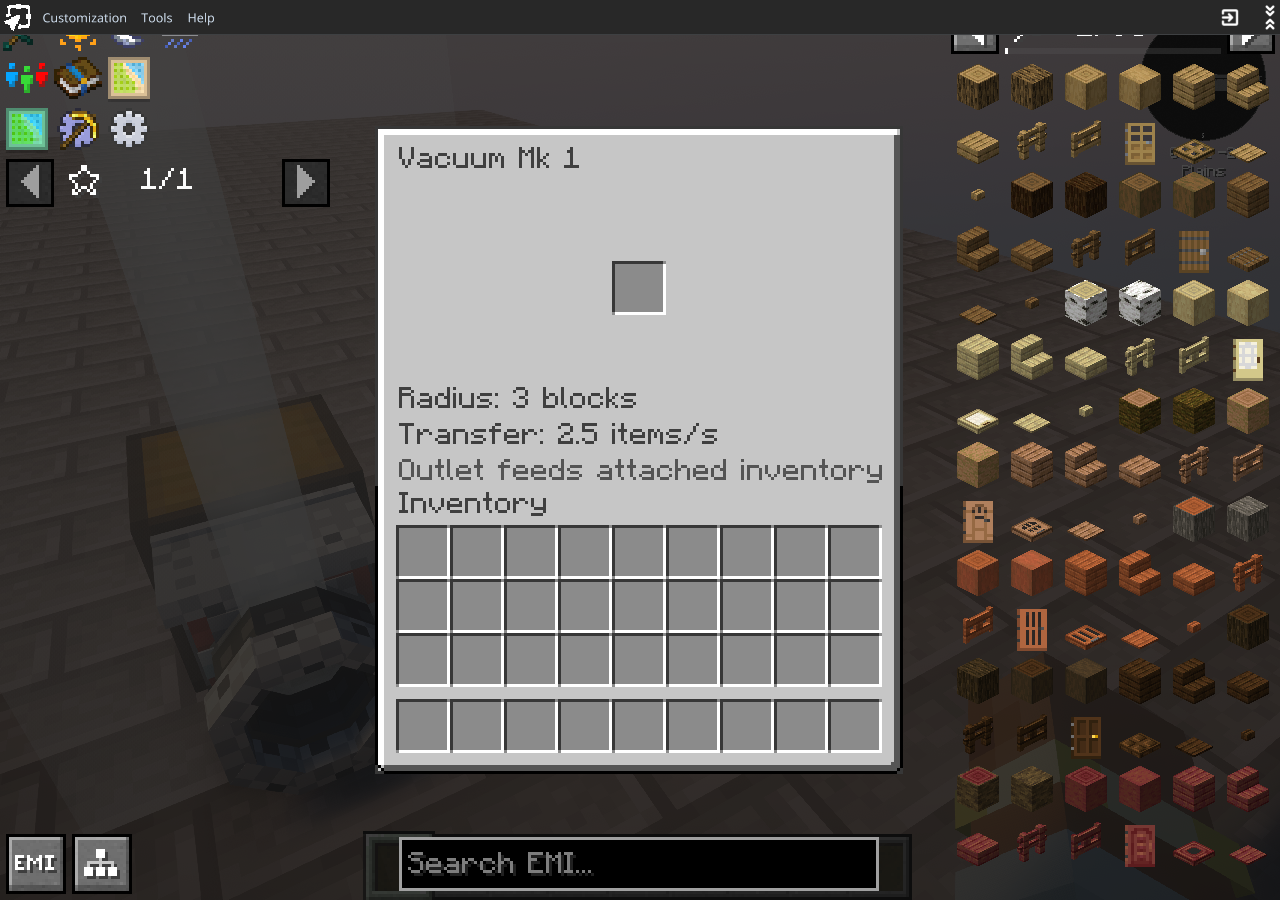
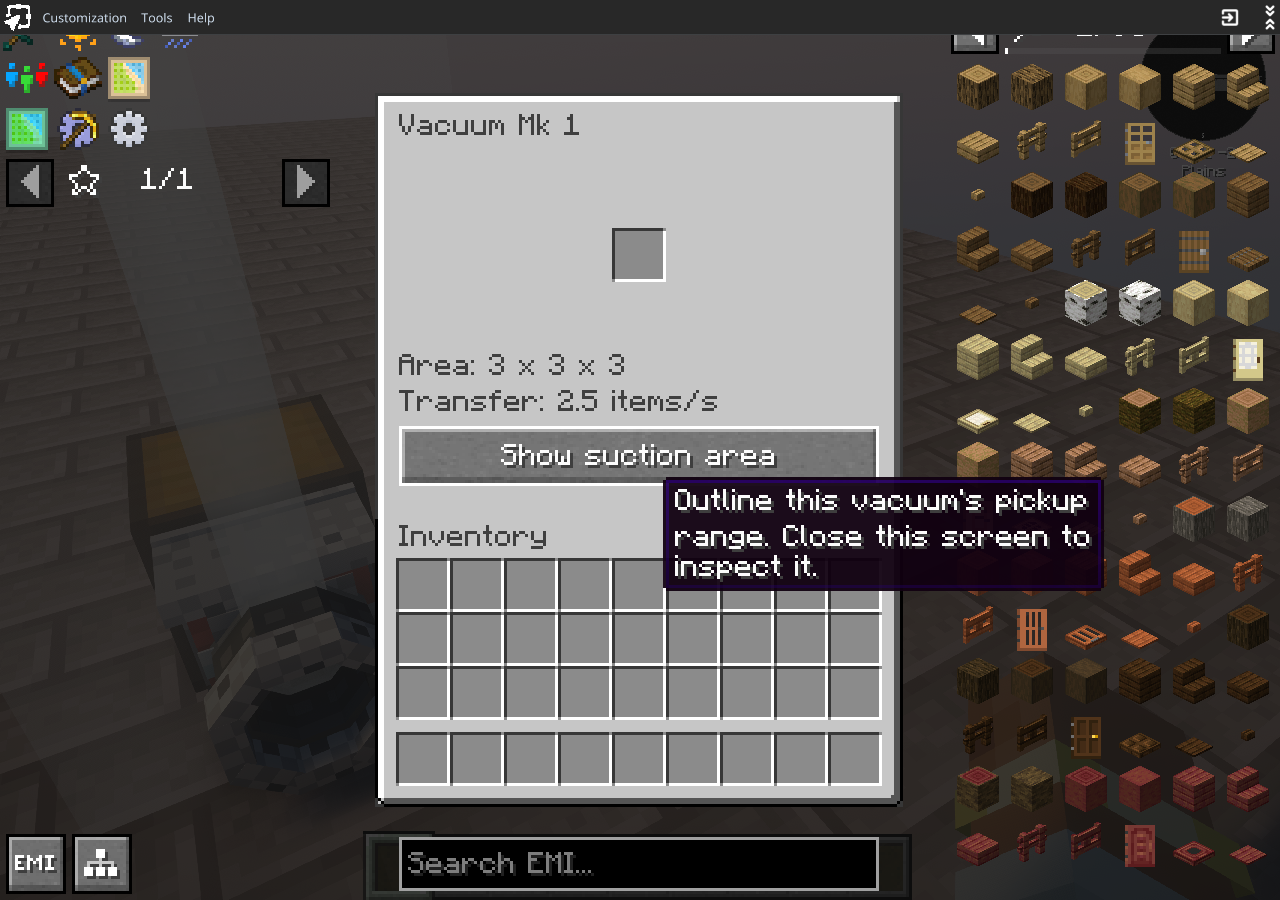
Add forward pickup cubes and vacuum area previews with upright floor placement

Changed region(s): [[0.2812, 0.3733, 0.875, 0.9022], [0.2812, 0.0933, 0.7188, 0.1867], [0.4688, 0.2489, 0.5312, 0.3733]]

diff --git a/revoindustry/src/vacuumtest/java/dk/revo/revoindustry/vacuum/VacuumGameTests.java b/revoindustry/src/vacuumtest/java/dk/revo/revoindustry/vacuum/VacuumGameTests.java
@@ -10,7 +10,8 @@ import net.neoforged.neoforge.gametest.*;
 @GameTestHolder("revoindustry") @PrefixGameTestTemplate(false)
 public final class VacuumGameTests {
  static VacuumEntity make(GameTestHelper h,int tier,Direction facing){var pos=h.absolutePos(new BlockPos(4,3,4));if(h.getLevel().getBlockEntity(pos) instanceof VacuumEntity old)for(int i=0;i<old.inventory.getSlots();i++)old.inventory.setStackInSlot(i,ItemStack.EMPTY);h.getLevel().setBlockAndUpdate(pos,Blocks.AIR.defaultBlockState());h.getLevel().setBlockAndUpdate(pos,Vacuums.BLOCKS.get(tier).get().defaultBlockState().setValue(VacuumBlock.OUTLET,facing));return (VacuumEntity)h.getLevel().getBlockEntity(pos);}
- static void step(VacuumEntity v,int ticks){var l=(net.minecraft.server.level.ServerLevel)v.getLevel();for(int i=0;i<ticks;i++){l.getServer().getWorldData().overworldData().setGameTime(l.getGameTime()+1);v.tick();}}
+ static void step(VacuumEntity v,int ticks){var l=(net.minecraft.server.level.ServerLevel)v.getLevel();long original=l.getGameTime();try{for(int i=0;i<ticks;i++){l.getServer().getWorldData().overworldData().setGameTime(original+i+1);v.tick();}}finally{l.getServer().getWorldData().overworldData().setGameTime(original);}}
+
  static ItemEntity item(GameTestHelper h,Vec3 pos,Item item,int count){var e=new ItemEntity(h.getLevel(),pos.x,pos.y,pos.z,new ItemStack(item,count));e.setNoGravity(true);e.setDeltaMovement(Vec3.ZERO);h.getLevel().addFreshEntity(e);return e;}
  @GameTest(template="vacuum_test",timeoutTicks=100)
  public static void tiersSlotsAndSixDirectionalChestTransfer(GameTestHelper h){
@@ -27,26 +28,54 @@ public final class VacuumGameTests {
   var v=make(h,0,Direction.DOWN);var p=v.getBlockPos().below();h.getLevel().setBlockAndUpdate(p,Blocks.CHEST.defaultBlockState());var chest=(ChestBlockEntity)h.getLevel().getBlockEntity(p);
   for(int i=0;i<27;i++)chest.setItem(i,new ItemStack(Items.STONE,64));v.inventory.insertItem(0,new ItemStack(Items.DIAMOND,12),false);step(v,24);h.assertTrue(v.inventory.getStackInSlot(0).getCount()==12,"Full chest must preserve buffer");
   var tag=v.saveWithoutMetadata(h.getLevel().registryAccess());var restored=new VacuumEntity(v.getBlockPos(),v.getBlockState());restored.loadWithComponents(tag,h.getLevel().registryAccess());h.assertTrue(restored.inventory.getStackInSlot(0).getCount()==12,"Inventory survives save/load");
-  v.inventory.setStackInSlot(0,new ItemStack(Items.DIAMOND,63));var entity=item(h,v.intake(),Items.DIAMOND,5);step(v,4);h.assertTrue(v.inventory.getStackInSlot(0).getCount()==64&&entity.getItem().getCount()==4&&entity.isAlive(),"Partial pickup preserves all remainder");
+  v.inventory.setStackInSlot(0,new ItemStack(Items.DIAMOND,63));var entity=item(h,Vec3.atCenterOf(v.getBlockPos()).relative(v.outlet().getOpposite(),.65),Items.DIAMOND,5);step(v,4);h.assertTrue(v.inventory.getStackInSlot(0).getCount()==64&&entity.getItem().getCount()==4&&entity.isAlive(),"Partial pickup preserves all remainder");
   h.assertTrue(!v.accepts(new ItemStack(Items.DIAMOND)),"Full buffer refuses attraction");entity.discard();h.succeed();
  }
  @GameTest(template="vacuum_test",timeoutTicks=100)
- public static void pickupRadiusPullDirectionAndActualCollection(GameTestHelper h){
+ public static void pickupCubeBoundariesCornersAndActualCollection(GameTestHelper h){
   for(int tier=0;tier<3;tier++){
-   var v=make(h,tier,Direction.DOWN);var centre=Vec3.atCenterOf(v.getBlockPos());var inside=item(h,centre.add(Vacuums.radius(tier)-.2,0,0),Items.IRON_INGOT,1);var outside=item(h,centre.add(Vacuums.radius(tier)+.2,0,0),Items.GOLD_INGOT,1);
-   step(v,4);h.assertTrue(inside.getDeltaMovement().x<0,"In-range item pulled toward nozzle");h.assertTrue(outside.getDeltaMovement().lengthSqr()==0,"Out-of-range item untouched");
-   inside.setPos(v.intake());step(v,4);h.assertTrue(!inside.isAlive()&&v.inventory.getStackInSlot(0).is(Items.IRON_INGOT),"Nearby item enters buffer");outside.discard();
+   var v=make(h,tier,Direction.SOUTH);var centre=Vacuums.area(v.getBlockPos(),tier,v.outlet()).getCenter();var inside=item(h,centre.add(Vacuums.size(tier)/2.0-.2,0,0),Items.IRON_INGOT,1);var outside=item(h,centre.add(Vacuums.size(tier)/2.0+.2,0,0),Items.GOLD_INGOT,1);
+   var area=Vacuums.area(v.getBlockPos(),tier,v.outlet());h.assertTrue(area.getXsize()==new int[]{3,5,9}[tier]&&area.getYsize()==area.getXsize()&&area.getZsize()==area.getXsize(),"Exact block-aligned tier cube");
+   double cornerOffset=Vacuums.size(tier)/2.0-.2;var corner=item(h,centre.add(cornerOffset,cornerOffset,cornerOffset),Items.DIAMOND,1);
+   step(v,4);h.assertTrue(corner.getDeltaMovement().lengthSqr()>0&&corner.getDeltaMovement().x<0,"Cube corners are included");corner.discard();h.assertTrue(inside.getDeltaMovement().x<0,"In-range item pulled toward nozzle");h.assertTrue(outside.getDeltaMovement().lengthSqr()==0,"Out-of-range item untouched");
+   inside.setPos(Vec3.atCenterOf(v.getBlockPos()).relative(v.outlet().getOpposite(),.65));step(v,4);h.assertTrue(!inside.isAlive()&&v.inventory.getStackInSlot(0).is(Items.IRON_INGOT),"Nearby item enters buffer");outside.discard();
   }h.succeed();
  }
  @GameTest(template="vacuum_test",timeoutTicks=100)
  public static void fullBufferDoesNotMoveItemsAndBreakingDropsOnce(GameTestHelper h){
-  var v=make(h,2,Direction.UP);for(int i=0;i<9;i++)v.inventory.setStackInSlot(i,new ItemStack(Items.STONE,64));var e=item(h,Vec3.atCenterOf(v.getBlockPos()).add(2,0,0),Items.DIAMOND,4);step(v,4);h.assertTrue(e.getDeltaMovement().lengthSqr()==0&&e.getItem().getCount()==4,"Full buffer leaves items untouched");
+  var v=make(h,2,Direction.UP);for(int i=0;i<9;i++)v.inventory.setStackInSlot(i,new ItemStack(Items.STONE,64));var e=item(h,Vec3.atCenterOf(v.getBlockPos()).relative(v.outlet().getOpposite(),2),Items.DIAMOND,4);step(v,4);h.assertTrue(e.getDeltaMovement().lengthSqr()==0&&e.getItem().getCount()==4,"Full buffer leaves items untouched");
   var box=new net.minecraft.world.phys.AABB(v.getBlockPos()).inflate(1);h.getLevel().setBlockAndUpdate(v.getBlockPos(),Blocks.AIR.defaultBlockState());int count=h.getLevel().getEntitiesOfClass(ItemEntity.class,box).stream().filter(x->x.getItem().is(Items.STONE)).mapToInt(x->x.getItem().getCount()).sum();h.assertTrue(count==576,"Breaking drops every buffered item once");e.discard();h.succeed();
  }
  @GameTest(template="vacuum_test",timeoutTicks=120)
  public static void worldTicksActuallyPullAndCollectItems(GameTestHelper h){
-  var v=make(h,2,Direction.DOWN);var e=item(h,v.intake().add(0,0,-2.5),Items.EMERALD,7);
+  var v=make(h,2,Direction.DOWN);var e=item(h,Vec3.atCenterOf(v.getBlockPos()).relative(v.outlet().getOpposite(),2.5),Items.EMERALD,7);
   h.runAtTickTime(80,()->{h.assertTrue(!e.isAlive(),"Real entity motion must reach nozzle");h.assertTrue(v.inventory.getStackInSlot(0).is(Items.EMERALD)&&v.inventory.getStackInSlot(0).getCount()==7,"Collected all seven without manual teleport");h.succeed();});
+ }
+
+ @GameTest(template="vacuum_test",timeoutTicks=100)
+ public static void forwardCubeAllTiersAndSixOrientations(GameTestHelper h){
+  for(int tier=0;tier<3;tier++)for(var outlet:Direction.values()){
+   var v=make(h,tier,outlet);var area=Vacuums.area(v.getBlockPos(),tier,outlet);var centre=Vec3.atCenterOf(v.getBlockPos());var front=outlet.getOpposite();int size=Vacuums.size(tier);
+   h.assertTrue(!area.contains(centre),"Vacuum must sit outside its forward collection cube");
+   h.assertTrue(area.contains(centre.relative(front,1))&&area.contains(centre.relative(front,size)),"First and last blocks in front are included");
+   h.assertTrue(!area.contains(centre.relative(front,size+1))&&!area.contains(centre.relative(outlet,1)),"Rear output and beyond-front blocks are excluded");
+   var accepted=item(h,centre.relative(front,1),Items.DIAMOND,1);var rejected=item(h,centre.relative(outlet,1),Items.GOLD_INGOT,1);step(v,4);
+   h.assertTrue(!accepted.isAlive()&&v.inventory.getStackInSlot(0).is(Items.DIAMOND),"Front item collected in every orientation");
+   h.assertTrue(rejected.isAlive()&&rejected.getDeltaMovement().lengthSqr()==0,"Rear item stays untouched");rejected.discard();
+  }h.succeed();
+ }
+
+ @GameTest(template="vacuum_test",timeoutTicks=100)
+ public static void floorPlacementUprightAndInventoryMounting(GameTestHelper h){
+  var player=h.makeMockPlayer(net.minecraft.world.level.GameType.CREATIVE);var base=h.absolutePos(new BlockPos(4,1,4));
+  for(int tier=0;tier<3;tier++)for(var facing:Direction.Plane.HORIZONTAL){
+   player.setYRot(facing.toYRot());h.getLevel().setBlockAndUpdate(base,Blocks.STONE.defaultBlockState());
+   var hit=new net.minecraft.world.phys.BlockHitResult(Vec3.atCenterOf(base).add(0,.5,0),Direction.UP,base,false);
+   var context=new net.minecraft.world.item.context.BlockPlaceContext(h.getLevel(),player,net.minecraft.world.InteractionHand.MAIN_HAND,new ItemStack(Vacuums.BLOCKS.get(tier).get()),hit);
+   h.assertTrue(Vacuums.BLOCKS.get(tier).get().getStateForPlacement(context).getValue(VacuumBlock.OUTLET)==facing,"Floor placement stays upright and faces the player");
+   h.getLevel().setBlockAndUpdate(base,Blocks.CHEST.defaultBlockState());
+   h.assertTrue(Vacuums.BLOCKS.get(tier).get().getStateForPlacement(context).getValue(VacuumBlock.OUTLET)==Direction.DOWN,"Chest-top mounting aims the rear output into the chest");
+  }h.succeed();
  }
 
 }

diff --git a/revoindustry/src/vacuumuiqa/java/dk/revo/revoindustry/vacuum/VacuumUiQa.java b/revoindustry/src/vacuumuiqa/java/dk/revo/revoindustry/vacuum/VacuumUiQa.java
@@ -16,12 +16,16 @@ import net.neoforged.fml.common.EventBusSubscriber;
 import net.neoforged.neoforge.client.event.ClientTickEvent;
 @EventBusSubscriber(modid=RevoIndustry.MOD_ID,value=Dist.CLIENT)
 public final class VacuumUiQa {
- private static boolean started,done,hide;private static int fov;private static volatile boolean ready;private static int stage,frames;
- private static final String[] names={"tier-1","tier-2","tier-3","rear-output","tier-1-menu","tier-2-menu","tier-3-menu","suction"};
+ private static boolean started,done,hide,pauseOnLostFocus;private static int fov;private static volatile boolean ready;private static int stage,frames;private static boolean pressed;
+ private static final String[] names={"tier-1","tier-2","tier-3","rear-output","tier-1-menu","tier-2-menu","tier-3-menu","suction","area-menu-on","area-enabled","area-menu-off","placement-tier-1","placement-tier-2","placement-tier-3","area-alignment"};
  private static BlockPos pos(int tier){return new BlockPos(tier*12,160,0);}
  private static void server(Consumer<ServerPlayer> action){var mc=Minecraft.getInstance();mc.getSingleplayerServer().execute(()->action.accept(mc.getSingleplayerServer().getPlayerList().getPlayer(mc.player.getUUID())));}
  private static void camera(int tier,boolean side){server(p->{p.closeContainer();var b=side?new BlockPos(36,160,0):pos(tier);p.teleportTo(b.getX()+2.3,b.getY()+.7,b.getZ()-2.5);p.getAbilities().flying=true;p.onUpdateAbilities();});}
- private static void menu(int tier){server(p->{p.closeContainer();var b=pos(tier);p.teleportTo(b.getX()+.5,b.getY()+1,b.getZ()-2);p.openMenu((VacuumEntity)p.serverLevel().getBlockEntity(b),buf->buf.writeVarInt(tier));});}
+ private static void menu(int tier){server(p->{p.closeContainer();var b=pos(tier);p.teleportTo(b.getX()+.5,b.getY()+1,b.getZ()-2);p.openMenu((VacuumEntity)p.serverLevel().getBlockEntity(b),buf->{buf.writeVarInt(tier);buf.writeBlockPos(b);});});}
+ private static void farCamera(){server(p->{p.closeContainer();var b=Vacuums.area(pos(2),2,Direction.SOUTH).getCenter();p.teleportTo(b.x+10,b.y+4,b.z-12);p.getAbilities().flying=true;p.onUpdateAbilities();});}
+ private static void alignmentCamera(){var mc=Minecraft.getInstance();mc.options.fov().set(55);if(!dk.revo.revoindustry.client.VacuumAreaOverlay.isShown(pos(0)))dk.revo.revoindustry.client.VacuumAreaOverlay.toggle(pos(0));server(p->{p.closeContainer();p.setItemInHand(net.minecraft.world.InteractionHand.MAIN_HAND,ItemStack.EMPTY);p.teleportTo(7,160.7,-1.5);p.getAbilities().flying=true;p.onUpdateAbilities();});}
+ private static void placementCamera(int tier){server(p->{p.closeContainer();p.setItemInHand(net.minecraft.world.InteractionHand.MAIN_HAND,new ItemStack(Vacuums.BLOCKS.get(tier).get()));p.teleportTo(2.2,160,-7);p.getAbilities().flying=true;p.onUpdateAbilities();});}
+ private static void pressAreaButton(boolean expected){var mc=Minecraft.getInstance();var screen=(dk.revo.revoindustry.client.VacuumScreen)mc.screen;if(!screen.getMenu().position.equals(pos(2)))throw new IllegalStateException("Menu lost its vacuum position");var button=screen.children().stream().filter(w->w instanceof net.minecraft.client.gui.components.Button).map(w->(net.minecraft.client.gui.components.Button)w).findFirst().orElseThrow();button.onPress();if(dk.revo.revoindustry.client.VacuumAreaOverlay.isShown(pos(2))!=expected)throw new IllegalStateException("Area button failed to toggle");}
  private static void prepare(){server(p->{
   if(!p.serverLevel().getServer().getWorldPath(LevelResource.ROOT).toString().contains("Revo Vacuum QA"))throw new IllegalStateException("Vacuum QA requires its isolated save");
   var l=p.serverLevel();l.setDayTime(1000);l.setWeatherParameters(100000,0,false,false);l.getGameRules().getRule(net.minecraft.world.level.GameRules.RULE_DAYLIGHT).set(false,l.getServer());p.setGameMode(net.minecraft.world.level.GameType.CREATIVE);p.getInventory().clearContent();p.teleportTo(0,164,-4);
@@ -31,16 +35,23 @@ public final class VacuumUiQa {
   l.getEntitiesOfClass(ItemEntity.class,new net.minecraft.world.phys.AABB(-8,159,-8,44,169,21)).forEach(net.minecraft.world.entity.Entity::discard);l.getEntitiesOfClass(net.minecraft.world.entity.ExperienceOrb.class,new net.minecraft.world.phys.AABB(-8,159,-8,44,169,21)).forEach(net.minecraft.world.entity.Entity::discard);ready=true;
  });}
  @SubscribeEvent public static void tick(ClientTickEvent.Post event){var mc=Minecraft.getInstance();if(done||mc.player==null||mc.level==null||mc.getSingleplayerServer()==null)return;
-  if(!started){started=true;hide=mc.options.hideGui;fov=mc.options.fov().get();mc.options.fov().set(55);prepare();return;}if(!ready)return;
-  mc.options.hideGui=stage<4||stage==7;
+  if(mc.screen instanceof net.minecraft.client.gui.screens.PauseScreen)mc.setScreen(null);
+  if(!started){started=true;pauseOnLostFocus=mc.options.pauseOnLostFocus;mc.options.pauseOnLostFocus=false;hide=mc.options.hideGui;fov=mc.options.fov().get();mc.options.fov().set(55);prepare();return;}if(!ready)return;
+  mc.options.hideGui=stage<4||stage==7||stage==9||stage>=11;
   if(stage<4||stage==7){if(frames==0)camera(stage<3?stage:2,stage==3);var target=stage==3?new BlockPos(36,160,0):pos(stage==7?2:stage);mc.player.lookAt(net.minecraft.commands.arguments.EntityAnchorArgument.Anchor.EYES,Vec3.atCenterOf(target).add(0,-.2,0));}
+  if(stage==9)mc.player.lookAt(net.minecraft.commands.arguments.EntityAnchorArgument.Anchor.EYES,Vacuums.area(pos(2),2,Direction.SOUTH).getCenter());
+  if(stage>=11&&stage<=13){mc.options.fov().set(100);mc.player.lookAt(net.minecraft.commands.arguments.EntityAnchorArgument.Anchor.EYES,new Vec3(.5,159.5,-3.5));}
+  if(stage==14)mc.player.lookAt(net.minecraft.commands.arguments.EntityAnchorArgument.Anchor.EYES,Vacuums.area(pos(0),0,Direction.SOUTH).getCenter());
+  if((stage==8||stage==10)&&frames>=10&&!pressed&&mc.screen instanceof dk.revo.revoindustry.client.VacuumScreen){pressAreaButton(stage==8);pressed=true;}
   if(stage==7&&frames%6==0)server(p->{var b=pos(2);var e=new ItemEntity(p.serverLevel(),b.getX()+.5,160.5,-2.2,new ItemStack(Items.IRON_INGOT));e.setNoGravity(true);p.serverLevel().addFreshEntity(e);});
-  if(stage>=4&&stage<=6&&!(mc.screen instanceof dk.revo.revoindustry.client.VacuumScreen)){if(++frames>240)throw new IllegalStateException("Vacuum menu failed to open");return;}
-  if(++frames<(stage==0?100:stage==7?47:45))return;
+  if(((stage>=4&&stage<=6)||stage==8||stage==10)&&!(mc.screen instanceof dk.revo.revoindustry.client.VacuumScreen)){if(++frames>240)throw new IllegalStateException("Vacuum menu failed to open");return;}
+  if(++frames<(stage==0?100:stage==7?47:stage>=11?70:45))return;
+  if(stage>=11&&stage<=13&&dk.revo.revoindustry.client.VacuumAreaOverlay.placementPosition()==null)throw new IllegalStateException("Placement preview did not resolve a placeable target");
   try {var dir=Path.of("../../art/blockbench/vacuums/ingame").toAbsolutePath().normalize();Files.createDirectories(dir);try(var image=Screenshot.takeScreenshot(mc.getMainRenderTarget())){image.writeToFile(dir.resolve(names[stage]+".png"));}
    if(stage==3)menu(0);else if(stage==4)menu(1);else if(stage==5)menu(2);else if(stage==6)camera(2,false);
-   if(stage==7){Files.writeString(dir.resolve("qa-results.txt"),"All three single-block vacuums rendered with exact 1/3/9-slot menus, rear output plate and live suction particles.\n");done=true;mc.options.hideGui=hide;mc.options.fov().set(fov);mc.stop();}
-   stage++;frames=0;
+   if(stage==7)menu(2);else if(stage==8)farCamera();else if(stage==9)menu(2);else if(stage==10)placementCamera(0);else if(stage==11)placementCamera(1);else if(stage==12)placementCamera(2);else if(stage==13)alignmentCamera();
+   if(stage==14){Files.writeString(dir.resolve("qa-results.txt"),"All three single-block vacuums rendered with exact 1/3/9-slot menus, rear output plate, live suction particles, working UI area toggle on/off and all three automatic placement range previews.\n");done=true;mc.options.hideGui=hide;mc.options.fov().set(fov);mc.options.pauseOnLostFocus=pauseOnLostFocus;mc.stop();}
+   stage++;frames=0;pressed=false;
   }catch(Exception e){throw new RuntimeException(e);}
  }
 }

diff --git a/revoindustry/src/main/java/dk/revo/revoindustry/client/VacuumAreaOverlay.java b/revoindustry/src/main/java/dk/revo/revoindustry/client/VacuumAreaOverlay.java
@@ -1,0 +1,61 @@
+package dk.revo.revoindustry.client;
+import com.mojang.blaze3d.vertex.*;
+import dk.revo.revoindustry.RevoIndustry;
+import dk.revo.revoindustry.vacuum.*;
+import java.util.*;
+import net.minecraft.client.Minecraft;
+import net.minecraft.client.renderer.*;
+import net.minecraft.core.BlockPos;
+import net.minecraft.resources.ResourceKey;
+import net.minecraft.world.InteractionHand;
+import net.minecraft.world.item.BlockItem;
+import net.minecraft.world.item.context.*;
+import net.minecraft.world.level.Level;
+import net.minecraft.world.phys.*;
+import net.neoforged.api.distmarker.Dist;
+import net.neoforged.bus.api.SubscribeEvent;
+import net.neoforged.fml.common.EventBusSubscriber;
+import net.neoforged.neoforge.client.event.*;
+/** Local display preference: each machine can be outlined independently until toggled off or logout. */
+@EventBusSubscriber(modid=RevoIndustry.MOD_ID,value=Dist.CLIENT)
+public final class VacuumAreaOverlay {
+ private record Key(ResourceKey<Level> dimension,BlockPos pos){}
+ private static final Set<Key> VISIBLE=new HashSet<>();
+ public static boolean isShown(BlockPos pos){var l=Minecraft.getInstance().level;return l!=null&&VISIBLE.contains(new Key(l.dimension(),pos));}
+ public static void toggle(BlockPos pos){var l=Minecraft.getInstance().level;if(l==null)return;var key=new Key(l.dimension(),pos.immutable());if(!VISIBLE.remove(key))VISIBLE.add(key);}
+ @SubscribeEvent public static void logout(ClientPlayerNetworkEvent.LoggingOut e){VISIBLE.clear();}
+ private record Placement(BlockPos pos,int tier,net.minecraft.core.Direction outlet){}
+ private static Placement placement(){
+  var mc=Minecraft.getInstance();if(mc.player==null||mc.level==null||mc.screen!=null||!(mc.hitResult instanceof BlockHitResult hit)||hit.getType()!=HitResult.Type.BLOCK)return null;
+  for(var hand:InteractionHand.values())if(mc.player.getItemInHand(hand).getItem() instanceof BlockItem item&&item.getBlock() instanceof VacuumBlock block){
+   var context=new BlockPlaceContext(new UseOnContext(mc.player,hand,hit));var pos=context.getClickedPos();
+   if(context.canPlace()&&!mc.level.isOutsideBuildHeight(pos)&&mc.level.getWorldBorder().isWithinBounds(pos))return new Placement(pos.immutable(),block.tier,block.getStateForPlacement(context).getValue(VacuumBlock.OUTLET));
+  }return null;
+ }
+ public static BlockPos placementPosition(){var p=placement();return p==null?null:p.pos;}
+ @SubscribeEvent public static void render(RenderLevelStageEvent e){
+  if(e.getStage()!=RenderLevelStageEvent.Stage.AFTER_LEVEL)return;var mc=Minecraft.getInstance();if(mc.level==null||mc.player==null)return;
+  var preview=placement();if(VISIBLE.isEmpty()&&preview==null)return;
+  var camera=e.getCamera().getPosition();var pose=new PoseStack();pose.mulPose(e.getModelViewMatrix());var buffers=mc.renderBuffers().bufferSource();var lines=buffers.getBuffer(RangeLines.TYPE);
+  for(var it=VISIBLE.iterator();it.hasNext();){var key=it.next();if(!key.dimension.equals(mc.level.dimension())||!mc.level.hasChunkAt(key.pos))continue;
+   if(!(mc.level.getBlockState(key.pos).getBlock() instanceof VacuumBlock vacuum)){it.remove();continue;}
+   if(key.pos.distToCenterSqr(camera)>128*128)continue;
+   box(pose,lines,key.pos,camera,vacuum.tier,mc.level.getBlockState(key.pos).getValue(VacuumBlock.OUTLET),.2f,.85f,1f);
+  }
+  if(preview!=null){box(pose,lines,preview.pos,camera,preview.tier,preview.outlet,.35f,1f,.45f);pose.pushPose();pose.translate(preview.pos.getX()-camera.x,preview.pos.getY()-camera.y,preview.pos.getZ()-camera.z);LevelRenderer.renderLineBox(pose,lines,new AABB(0,0,0,1,1,1),.6f,1f,.65f,.9f);pose.popPose();}
+  buffers.endBatch(RangeLines.TYPE);
+ }
+ private static void box(PoseStack pose,VertexConsumer lines,BlockPos pos,Vec3 camera,int tier,net.minecraft.core.Direction outlet,float red,float green,float blue){
+  LevelRenderer.renderLineBox(pose,lines,Vacuums.area(pos,tier,outlet).move(-camera.x,-camera.y,-camera.z),red,green,blue,.85f);
+ }
+ /** Transparent lines remain readable through terrain without modifying the world's depth buffer. */
+ private static final class RangeLines extends RenderType {
+  private RangeLines(){super("unused",DefaultVertexFormat.POSITION_COLOR_NORMAL,VertexFormat.Mode.LINES,1536,false,false,()->{},()->{});}
+  private static final DepthTestStateShard XRAY=new DepthTestStateShard("vacuum_area_always",519){
+   private boolean previous;
+   public void setupRenderState(){previous=org.lwjgl.opengl.GL11.glIsEnabled(org.lwjgl.opengl.GL11.GL_DEPTH_TEST);com.mojang.blaze3d.systems.RenderSystem.disableDepthTest();}
+   public void clearRenderState(){if(previous)com.mojang.blaze3d.systems.RenderSystem.enableDepthTest();else com.mojang.blaze3d.systems.RenderSystem.disableDepthTest();}
+  };
+  static final RenderType TYPE=create("revo_vacuum_range",DefaultVertexFormat.POSITION_COLOR_NORMAL,VertexFormat.Mode.LINES,1536,false,false,CompositeState.builder().setShaderState(RENDERTYPE_LINES_SHADER).setLineState(new LineStateShard(OptionalDouble.of(2))).setTransparencyState(TRANSLUCENT_TRANSPARENCY).setDepthTestState(XRAY).setWriteMaskState(COLOR_WRITE).setCullState(NO_CULL).createCompositeState(false));
+ }
+}

diff --git a/scripts/verify_vacuums.py b/scripts/verify_vacuums.py
@@ -38,17 +38,19 @@ for tier in range(1,4):
  for folder in ['recipe','loot_table/blocks']:assert (RES/f'data/revoindustry/{folder}/vacuum_{tier}.json').exists()
  for name in [f'tier-{tier}.png',f'tier-{tier}-menu.png']:
   assert Image.open(ART/'ingame'/name).size==(1280,900)
-for name in ['rear-output.png','suction.png']:assert Image.open(ART/'ingame'/name).size==(1280,900)
+assert 'working UI area toggle on/off' in (ART/'ingame/qa-results.txt').read_text()
+for name in ['rear-output.png','suction.png','area-menu-on.png','area-enabled.png','area-menu-off.png','placement-tier-1.png','placement-tier-2.png','placement-tier-3.png','area-alignment.png']:assert Image.open(ART/'ingame'/name).size==(1280,900)
 with zipfile.ZipFile(ROOT/'build/mods/revoindustry-0.1.0-dev.jar') as jar:
  assert not any('VacuumGameTests' in n or 'VacuumUiQa' in n or 'vacuum_test.nbt' in n for n in jar.namelist())
  for n in ['VacuumBlock','VacuumEntity','VacuumMenu','VacuumShape','Vacuums']:assert f'dk/revo/revoindustry/vacuum/{n}.class' in jar.namelist()
+ assert 'dk/revo/revoindustry/client/VacuumAreaOverlay.class' in jar.namelist()
  for p in RES.rglob('*'):
   if p.is_file():
    expected=p.read_bytes().replace(b'${version}',b'0.1.0-dev').replace(b'\r\n',b'\n') if p.name=='neoforge.mods.toml' else p.read_bytes()
    assert jar.read(p.relative_to(RES).as_posix())==expected,p
-with zipfile.ZipFile(ROOT.parent/'Rassers-Revolution-Sky-Edition-0.1.31-dev.mrpack') as pack:
- assert json.loads(pack.read('modrinth.index.json'))['versionId']=='0.1.31-dev-vacuum-dither'
+with zipfile.ZipFile(ROOT.parent/'Rassers-Revolution-Sky-Edition-0.1.32-dev.mrpack') as pack:
+ assert json.loads(pack.read('modrinth.index.json'))['versionId']=='0.1.32-dev-vacuum-area'
  assert pack.read('overrides/REVO-VACUUMS.md')==(ROOT/'docs/REVO-VACUUMS.md').read_bytes()
  for p in (ROOT/'build/mods').glob('*.jar'):assert pack.read('overrides/mods/'+p.name)==p.read_bytes()
-report={'passed':True,'singleBlockTiers':3,'slots':[1,3,9],'radius':[3,5,7],'transferIntervalTicks':[8,4,1],'cubesPerTier':[24,26,31],'texturesPerTier':7,'pipeDiameterPixels':[10,12,14],'coplanarOverlappingFaces':0,'rearPlateOutput':True,'sixWayOutlet':True,'hollowOctagonalIntake':True,'singlePixelCheckerDither':True,'limitedPaletteVerified':True,'nativeTexturePixelsVerified':True,'boundsAndUvVerified':True,'inGameCaptures':8,'sourceJarPackBytesVerified':True}
+report={'passed':True,'singleBlockTiers':3,'slots':[1,3,9],'cubeSize':[3,5,9],'cubeFullyInFrontOfIntake':True,'transferIntervalTicks':[8,4,1],'cubesPerTier':[24,26,31],'texturesPerTier':7,'pipeDiameterPixels':[10,12,14],'coplanarOverlappingFaces':0,'rearPlateOutput':True,'sixWayOutlet':True,'hollowOctagonalIntake':True,'singlePixelCheckerDither':True,'limitedPaletteVerified':True,'nativeTexturePixelsVerified':True,'boundsAndUvVerified':True,'inGameCaptures':15,'uiAreaToggleVerified':True,'allTierPlacementPreviewsCaptured':True,'sourceJarPackBytesVerified':True}
 (ART/'validation.json').write_text(json.dumps(report,indent=2)+'\n');print(json.dumps(report,indent=2))

diff --git a/revoindustry/src/main/java/dk/revo/revoindustry/vacuum/VacuumBlock.java b/revoindustry/src/main/java/dk/revo/revoindustry/vacuum/VacuumBlock.java
@@ -19,7 +19,11 @@ public final class VacuumBlock extends Block implements EntityBlock {
  public VacuumBlock(int tier){super(Properties.of().strength(3.5f).sound(SoundType.METAL).noOcclusion());this.tier=tier;registerDefaultState(stateDefinition.any().setValue(OUTLET,Direction.SOUTH));}
  protected void createBlockStateDefinition(StateDefinition.Builder<Block,BlockState> b){b.add(OUTLET);}
  protected net.minecraft.world.phys.shapes.VoxelShape getShape(BlockState s,BlockGetter l,BlockPos p,net.minecraft.world.phys.shapes.CollisionContext c){return VacuumShape.get(tier,s.getValue(OUTLET));}
- public BlockState getStateForPlacement(BlockPlaceContext c){return defaultBlockState().setValue(OUTLET,c.getClickedFace().getOpposite());}
+ public BlockState getStateForPlacement(BlockPlaceContext c){
+  var outlet=c.getClickedFace().getOpposite();
+  if(outlet.getAxis()==Direction.Axis.Y){var support=c.getClickedPos().relative(c.getClickedFace().getOpposite());if(c.getLevel().getCapability(net.neoforged.neoforge.capabilities.Capabilities.ItemHandler.BLOCK,support,c.getClickedFace())==null)outlet=c.getHorizontalDirection();}
+  return defaultBlockState().setValue(OUTLET,outlet);
+ }
  protected BlockState rotate(BlockState s,Rotation r){return s.setValue(OUTLET,r.rotate(s.getValue(OUTLET)));}
  protected BlockState mirror(BlockState s,Mirror m){return s.rotate(m.getRotation(s.getValue(OUTLET)));}
  protected ItemInteractionResult useItemOn(ItemStack stack,BlockState s,Level l,BlockPos pos,Player p,InteractionHand hand,BlockHitResult hit){
@@ -32,6 +36,6 @@ public final class VacuumBlock extends Block implements EntityBlock {
  }
  public BlockEntity newBlockEntity(BlockPos p,BlockState s){return new VacuumEntity(p,s);}
  public <T extends BlockEntity> BlockEntityTicker<T> getTicker(Level l,BlockState s,BlockEntityType<T> t){return !l.isClientSide&&t==Vacuums.ENTITY.get()?(world,pos,state,be)->((VacuumEntity)be).tick():null;}
- protected InteractionResult useWithoutItem(BlockState s,Level l,BlockPos pos,Player p,BlockHitResult hit){if(l.getBlockEntity(pos) instanceof VacuumEntity v){if(!l.isClientSide)p.openMenu(v,b->b.writeVarInt(tier));return InteractionResult.sidedSuccess(l.isClientSide);}return InteractionResult.PASS;}
+ protected InteractionResult useWithoutItem(BlockState s,Level l,BlockPos pos,Player p,BlockHitResult hit){if(l.getBlockEntity(pos) instanceof VacuumEntity v){if(!l.isClientSide)p.openMenu(v,b->{b.writeVarInt(tier);b.writeBlockPos(pos);});return InteractionResult.sidedSuccess(l.isClientSide);}return InteractionResult.PASS;}
  protected void onRemove(BlockState s,Level l,BlockPos pos,BlockState next,boolean moving){if(!s.is(next.getBlock())&&!l.isClientSide&&l.getBlockEntity(pos) instanceof VacuumEntity v)for(int i=0;i<v.inventory.getSlots();i++)Containers.dropItemStack(l,pos.getX(),pos.getY(),pos.getZ(),v.inventory.extractItem(i,Integer.MAX_VALUE,false));super.onRemove(s,l,pos,next,moving);}
 }

diff --git a/revoindustry/src/main/java/dk/revo/revoindustry/client/VacuumScreen.java b/revoindustry/src/main/java/dk/revo/revoindustry/client/VacuumScreen.java
@@ -12,9 +12,12 @@ import net.neoforged.fml.common.EventBusSubscriber;
 import net.neoforged.neoforge.client.event.RegisterMenuScreensEvent;
 @EventBusSubscriber(modid=RevoIndustry.MOD_ID,bus=EventBusSubscriber.Bus.MOD,value=Dist.CLIENT)
 public final class VacuumScreen extends AbstractContainerScreen<VacuumMenu> {
- public VacuumScreen(VacuumMenu m,Inventory i,Component t){super(m,i,t);imageWidth=176;imageHeight=216;inventoryLabelY=122;}
+ public VacuumScreen(VacuumMenu m,Inventory i,Component t){super(m,i,t);imageWidth=176;imageHeight=238;inventoryLabelY=144;}
+ private net.minecraft.client.gui.components.Button area;
+ protected void init(){super.init();area=addRenderableWidget(net.minecraft.client.gui.components.Button.builder(areaLabel(),b->{VacuumAreaOverlay.toggle(menu.position);b.setMessage(areaLabel());}).bounds(leftPos+8,topPos+111,160,20).tooltip(net.minecraft.client.gui.components.Tooltip.create(Component.translatable("gui.revoindustry.vacuum.area_hint"))).build());}
+ private Component areaLabel(){return Component.translatable(VacuumAreaOverlay.isShown(menu.position)?"gui.revoindustry.vacuum.hide_area":"gui.revoindustry.vacuum.show_area");}
  @SubscribeEvent public static void register(RegisterMenuScreensEvent e){e.register(Vacuums.MENU.get(),VacuumScreen::new);}
  protected void renderBg(GuiGraphics g,float p,int mx,int my){VanillaMachineGui.panel(g,leftPos,topPos,imageWidth,imageHeight);VanillaMachineGui.playerInventory(g,leftPos,topPos,imageHeight);for(int i=0;i<Vacuums.slots(menu.tier);i++)VanillaMachineGui.slot(g,leftPos+VacuumMenu.x(menu.tier,i),topPos+VacuumMenu.y(menu.tier,i));}
- protected void renderLabels(GuiGraphics g,int mx,int my){g.drawString(font,title,8,7,0x404040,false);g.drawString(font,"Radius: "+Vacuums.radius(menu.tier)+" blocks",8,87,0x404040,false);g.drawString(font,"Transfer: "+(20f/Vacuums.interval(menu.tier))+" items/s",8,99,0x404040,false);g.drawString(font,"Outlet feeds attached inventory",8,111,0x555555,false);g.drawString(font,playerInventoryTitle,8,122,0x404040,false);}
+ protected void renderLabels(GuiGraphics g,int mx,int my){g.drawString(font,title,8,7,0x404040,false);g.drawString(font,"Area: "+Vacuums.size(menu.tier)+" x "+Vacuums.size(menu.tier)+" x "+Vacuums.size(menu.tier),8,87,0x404040,false);g.drawString(font,"Transfer: "+(20f/Vacuums.interval(menu.tier))+" items/s",8,99,0x404040,false);g.drawString(font,playerInventoryTitle,8,144,0x404040,false);}
  public void render(GuiGraphics g,int x,int y,float p){super.render(g,x,y,p);renderTooltip(g,x,y);}
 }

diff --git a/revoindustry/src/main/java/dk/revo/revoindustry/vacuum/VacuumMenu.java b/revoindustry/src/main/java/dk/revo/revoindustry/vacuum/VacuumMenu.java
@@ -6,12 +6,13 @@ import net.minecraft.world.item.ItemStack;
 import net.neoforged.neoforge.items.*;
 public final class VacuumMenu extends AbstractContainerMenu {
  public final int tier;
+ public final net.minecraft.core.BlockPos position;
  private final ContainerLevelAccess access;
- public VacuumMenu(int id,Inventory inv,int tier){this(id,inv,tier,new ItemStackHandler(Vacuums.slots(tier)),ContainerLevelAccess.NULL);}
- public VacuumMenu(int id,Inventory inv,VacuumEntity v){this(id,inv,v.tier(),v.inventory,ContainerLevelAccess.create(v.getLevel(),v.getBlockPos()));}
+ public VacuumMenu(int id,Inventory inv,int tier,net.minecraft.core.BlockPos pos){this(id,inv,tier,pos,new ItemStackHandler(Vacuums.slots(tier)),ContainerLevelAccess.NULL);}
+ public VacuumMenu(int id,Inventory inv,VacuumEntity v){this(id,inv,v.tier(),v.getBlockPos(),v.inventory,ContainerLevelAccess.create(v.getLevel(),v.getBlockPos()));}
  public static int x(int tier,int slot){return tier==0?80:tier==1?62+slot*18:62+(slot%3)*18;}
  public static int y(int tier,int slot){return tier==2?28+(slot/3)*18:46;}
- private VacuumMenu(int id,Inventory inv,int tier,IItemHandler items,ContainerLevelAccess access){super(Vacuums.MENU.get(),id);this.tier=tier;this.access=access;for(int i=0;i<Vacuums.slots(tier);i++)addSlot(new SlotItemHandler(items,i,x(tier,i),y(tier,i)));PlayerInventoryLayout.slots(inv,216).forEach(this::addSlot);}
+ private VacuumMenu(int id,Inventory inv,int tier,net.minecraft.core.BlockPos pos,IItemHandler items,ContainerLevelAccess access){super(Vacuums.MENU.get(),id);this.tier=tier;this.position=pos.immutable();this.access=access;for(int i=0;i<Vacuums.slots(tier);i++)addSlot(new SlotItemHandler(items,i,x(tier,i),y(tier,i)));PlayerInventoryLayout.slots(inv,238).forEach(this::addSlot);}
  public boolean stillValid(Player p){return stillValid(access,p,Vacuums.BLOCKS.get(tier).get());}
  public ItemStack quickMoveStack(Player p,int index){if(index<0||index>=slots.size())return ItemStack.EMPTY;var slot=slots.get(index);if(!slot.hasItem())return ItemStack.EMPTY;var stack=slot.getItem();var original=stack.copy();int n=Vacuums.slots(tier);if(!moveItemStackTo(stack,index<n?n:0,index<n?slots.size():n,index<n))return ItemStack.EMPTY;if(stack.isEmpty())slot.setByPlayer(ItemStack.EMPTY);else slot.setChanged();slot.onTake(p,stack);return original;}
 }

diff --git a/scripts/generate_vacuums.py b/scripts/generate_vacuums.py
@@ -50,7 +50,7 @@ for tier,color in enumerate([(155,54,43),(43,110,159),(123,71,172)],1):
  put(res/f'data/revoindustry/recipe/vacuum_{tier}.json',{'type':'minecraft:crafting_shaped','pattern':[' M ','MCM','RHR'],'key':{'M':{'item':material},'C':{'item':centre},'R':{'item':'minecraft:redstone'},'H':{'item':'minecraft:hopper'}},'result':{'id':f'revoindustry:vacuum_{tier}','count':1}})
  lang[f'block.revoindustry.vacuum_{tier}']=f'Vacuum Mk {tier}'
  if f'revoindustry:vacuum_{tier}' not in tags['values']:tags['values'].append(f'revoindustry:vacuum_{tier}')
-lang.update({'tooltip.revoindustry.vacuum.stats':'Radius: %s blocks | %s slots | %s items/s','tooltip.revoindustry.vacuum.outlet':'Place on an inventory to aim the rear plate outlet into it.','tooltip.revoindustry.vacuum.wrench':'Wrench rotates the outlet; no power required.'})
+lang.update({'tooltip.revoindustry.vacuum.stats':'Area: %1$s x %1$s x %1$s | %2$s slots | %3$s items/s','tooltip.revoindustry.vacuum.outlet':'Place on an inventory to aim the rear plate outlet into it.','tooltip.revoindustry.vacuum.wrench':'Wrench rotates the outlet; no power required.'})
 put(res/'assets/revoindustry/lang/en_us.json',lang);put(tag,tags)
 put(art/'plan.json',{'target':'Minecraft Java 1.21.1 NeoForge desktop','format':'java_block','shading':'Opaque vanilla albedo with deliberate pixel dithering','texel_density':'16 pixels per block; proportionate per-face UVs','budget':'24 / 26 / 31 cubes for distinct tier silhouettes','textures':'Seven shared 16px material tiles per tier; four-tone palettes with single-pixel checker dithering','animation':'Runtime item attraction and native end-rod suction stream','bounds':'All geometry within one 16x16x16 block','pipeDiameterPixels':[10,12,14],'seams':'Ring segments have unique front/back depths; cap and trim surfaces are separated','output':'Rear plate opposite the intake; local south, six-way facing'})
 base=str(root.resolve()).replace('\\','/')

diff --git a/revoindustry/src/main/java/dk/revo/revoindustry/vacuum/Vacuums.java b/revoindustry/src/main/java/dk/revo/revoindustry/vacuum/Vacuums.java
@@ -10,9 +10,10 @@ public final class Vacuums {
  public static final List<DeferredBlock<VacuumBlock>> BLOCKS=new ArrayList<>();
  static { for(int i=0;i<3;i++){final int tier=i;BLOCKS.add(RevoIndustry.BLOCKS.register("vacuum_"+(i+1),()->new VacuumBlock(tier)));} }
  public static final DeferredHolder<BlockEntityType<?>,BlockEntityType<VacuumEntity>> ENTITY=RevoIndustry.ENTITIES.register("vacuum",()->BlockEntityType.Builder.of(VacuumEntity::new,BLOCKS.stream().map(DeferredBlock::get).toArray(VacuumBlock[]::new)).build(null));
- public static final DeferredHolder<MenuType<?>,MenuType<VacuumMenu>> MENU=RevoIndustry.MENUS.register("vacuum",()->IMenuTypeExtension.create((id,inv,buf)->new VacuumMenu(id,inv,buf.readVarInt())));
+ public static final DeferredHolder<MenuType<?>,MenuType<VacuumMenu>> MENU=RevoIndustry.MENUS.register("vacuum",()->IMenuTypeExtension.create((id,inv,buf)->new VacuumMenu(id,inv,buf.readVarInt(),buf.readBlockPos())));
  public static int slots(int tier){return new int[]{1,3,9}[tier];}
- public static int radius(int tier){return 3+tier*2;}
+ public static int size(int tier){return new int[]{3,5,9}[tier];}
+ public static net.minecraft.world.phys.AABB area(net.minecraft.core.BlockPos pos,int tier,net.minecraft.core.Direction outlet){var front=outlet.getOpposite();double shift=(size(tier)+1)/2.0;return new net.minecraft.world.phys.AABB(pos).inflate((size(tier)-1)/2.0).move(front.getStepX()*shift,front.getStepY()*shift,front.getStepZ()*shift); }
  public static int interval(int tier){return new int[]{8,4,1}[tier];}
  public static void bootstrap(){}
  public static void capabilities(RegisterCapabilitiesEvent e){e.registerBlockEntity(Capabilities.ItemHandler.BLOCK,ENTITY.get(),(be,side)->be.inventory);}

diff --git a/scripts/verify_furnaces.py b/scripts/verify_furnaces.py
@@ -51,9 +51,9 @@ with zipfile.ZipFile(ROOT/'build/mods/revoindustry-0.1.0-dev.jar') as z:
  assert not any('FurnaceGameTests' in n or 'FurnaceUiQa' in n or 'furnace_test.nbt' in n for n in z.namelist())
  for name in ['FurnaceController','FurnaceFuelHatch','FurnaceItemHatch','FurnaceVent']:assert f'dk/revo/revoindustry/furnace/{name}.class' in z.namelist()
  assert 'dk/revo/revoindustry/mixin/DisableFactoryAugmentMixin.class' in z.namelist()
-with zipfile.ZipFile(ROOT.parent/'Rassers-Revolution-Sky-Edition-0.1.31-dev.mrpack') as z:
+with zipfile.ZipFile(ROOT.parent/'Rassers-Revolution-Sky-Edition-0.1.32-dev.mrpack') as z:
  assert read(ART/'manifest.json')
- assert json.loads(z.read('modrinth.index.json'))['versionId']=='0.1.31-dev-vacuum-dither'
+ assert json.loads(z.read('modrinth.index.json'))['versionId']=='0.1.32-dev-vacuum-area'
  assert z.read('overrides/REVO-FURNACES.md')==(ROOT/'docs/REVO-FURNACES.md').read_bytes()
  for p in (ROOT/'build/mods').glob('*.jar'):assert z.read('overrides/mods/'+p.name)==p.read_bytes()
 report={'passed':True,'tiers':10,'nativeMiIntegration':True,'registeredBlocks':33,'itemHatchGrades':3,'itemSlots':[1,2,4],'fuelHatches':9,'fuelHeatRates':[64,512,4096],'mandatoryRoofCentreVent':True,'adaptiveControllerHatchesAndVent':True,'exactMiHatchPixels':True,'factoryAugmentDisabled':True,'editableAssemblies':10,'inGameTierCaptures':10,'nativeMenusCaptured':True,'rainbowAnimated':True,'sourceJarAndPackBytesVerified':True}

diff --git a/scripts/verify_metal_farms.py b/scripts/verify_metal_farms.py
@@ -106,10 +106,10 @@ for module in ['revocultivation','revogenetics','revolib','revoindustry']:
             if p.is_file() and (p.suffix=='.json' and p.name.startswith(('steel_','iron_')) or p.name in ['metal_farms_atlas.png','greenhouse_tree_atlas.png','greenhouse_glass.png','en_us.json']):
                 assert jar.read(p.relative_to(resources).as_posix())==p.read_bytes(),p
         assert not any('GameTests' in n or 'UiQa' in n for n in jar.namelist())
-pack=ROOT.parent/'Rassers-Revolution-Sky-Edition-0.1.31-dev.mrpack'
+pack=ROOT.parent/'Rassers-Revolution-Sky-Edition-0.1.32-dev.mrpack'
 with zipfile.ZipFile(pack) as z:
     assert read(ROOT/'pack/mods.lock.json') # Existing external mod set is retained.
-    assert json.loads(z.read('modrinth.index.json'))['versionId']=='0.1.31-dev-vacuum-dither'
+    assert json.loads(z.read('modrinth.index.json'))['versionId']=='0.1.32-dev-vacuum-area'
     for p in (ROOT/'build/mods').glob('*.jar'):assert z.read('overrides/mods/'+p.name)==p.read_bytes()
     for p in (ROOT/'pack/overrides/config/ftbquests/quests/chapters').glob('*.snbt'):assert z.read('overrides/config/ftbquests/quests/chapters/'+p.name)==p.read_bytes()
     assert z.read('overrides/METAL-FARMS.md')==(ROOT/'docs/METAL-FARMS.md').read_bytes()

diff --git a/scripts/package_modpack.py b/scripts/package_modpack.py
@@ -20,10 +20,10 @@ def main():
     assert hashlib.sha512(data).hexdigest()==shader['sha512']
     files.append({'path':'shaderpacks/'+shader['file'],'hashes':{'sha512':shader['sha512'],'sha1':hashlib.sha1(data).hexdigest()},
         'env':{'client':'required','server':'unsupported'},'downloads':[shader['url']],'fileSize':len(data)})
-    index={'formatVersion':1,'game':'minecraft','versionId':'0.1.31-dev-vacuum-dither',
+    index={'formatVersion':1,'game':'minecraft','versionId':'0.1.32-dev-vacuum-area',
         'name':'Rassers Revolution: Sky Edition','summary':"Ten MI-backed furnace tiers with adaptive casings, permanent Factory smelting, graded item/fuel hatches, roof vents and night/rain greenhouse LEDs.",
         'files':files,'dependencies':{'minecraft':'1.21.1','neoforge':'21.1.265'}}
-    output=ROOT.parent/'Rassers-Revolution-Sky-Edition-0.1.31-dev.mrpack'
+    output=ROOT.parent/'Rassers-Revolution-Sky-Edition-0.1.32-dev.mrpack'
     jars=sorted((ROOT/'build/mods').glob('*.jar'))
     assert len(jars)==7
     assert (ROOT/'pack/overrides/config/fancymenu/assets/skyblock_loop.mp4').stat().st_size>1_000_000
